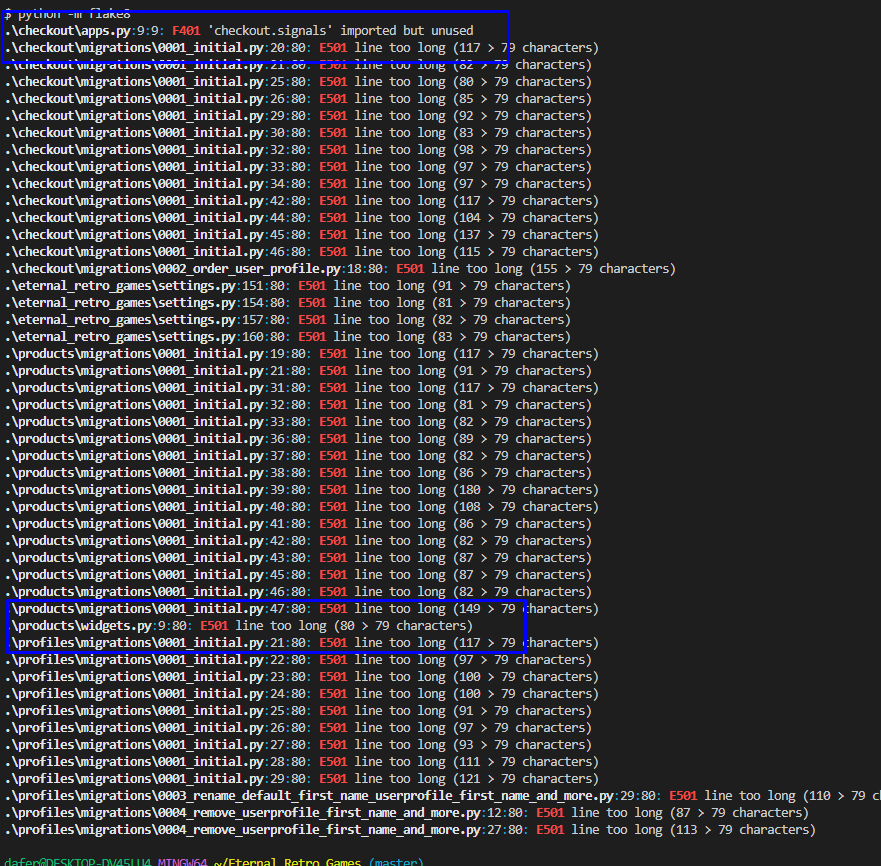
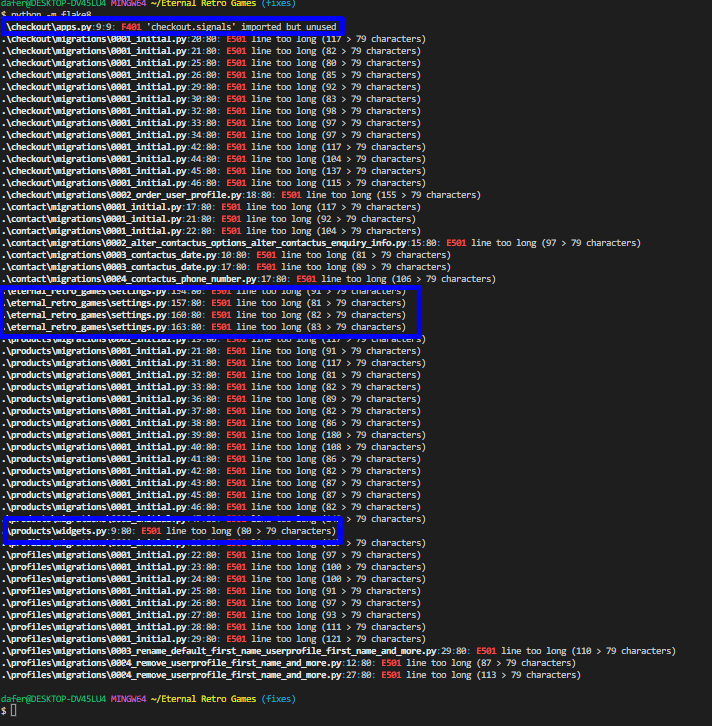
fixed issues reported by flake8 on contact and prodcust apps. image uploaded

diff --git a/contact/forms.py b/contact/forms.py
@@ -4,29 +4,31 @@ from .models import ContactUs
 
 
 select_contact_method = (
-	('email', 'Email'),
-	('phone', 'Phone'),
+    ('email', 'Email'),
+    ('phone', 'Phone'),
 )
+
 
 class ContactForm(forms.ModelForm):
 
-	class Meta:
-		model = ContactUs
-		fields = '__all__'
+    class Meta:
+        model = ContactUs
+        fields = '__all__'
 
-	first_name = forms.CharField(max_length=50)
-	last_name = forms.CharField(max_length=50)
-	email_address = forms.EmailField(max_length=150)
-	phone_number = PhoneNumberField(
-		widget=forms.TextInput(attrs={'placeholder': ('Please enter your country code if outside the UK...')}),
-		label=("Phone number"), required=False)
-	contact_method = forms.CharField(required=False, widget=forms.RadioSelect(choices=select_contact_method))
-	enquiry_info = forms.CharField(required=True)
-	message = forms.CharField(widget=forms.Textarea, max_length=2000)
+    first_name = forms.CharField(max_length=50)
+    last_name = forms.CharField(max_length=50)
+    email_address = forms.EmailField(max_length=150)
+    phone_number = PhoneNumberField(widget=forms.TextInput(
+        attrs={'placeholder': ('Please enter your country code\
+                               if outside the UK...')}), label=(
+        "Phone number"), required=False)
+    contact_method = forms.CharField(required=False,
+                                     widget=forms.RadioSelect
+                                     (choices=select_contact_method))
+    enquiry_info = forms.CharField(required=True)
+    message = forms.CharField(widget=forms.Textarea, max_length=2000)
 
-	def __init__(self, *args, **kwargs):
-		super().__init__(*args, **kwargs)
-		for field_name, field in self.fields.items():
-			field.widget.attrs['class'] = 'grey-font product-form-input'
-
-	
+    def __init__(self, *args, **kwargs):
+        super().__init__(*args, **kwargs)
+        for field_name, field in self.fields.items():
+            field.widget.attrs['class'] = 'grey-font product-form-input'

diff --git a/contact/views.py b/contact/views.py
@@ -1,7 +1,7 @@
 from django.shortcuts import render, redirect, reverse
 from .forms import ContactForm
 from django.contrib import messages
-from django.core.mail import send_mail, send_mass_mail, BadHeaderError
+from django.core.mail import send_mass_mail, BadHeaderError
 from django.http import HttpResponse
 from django.conf import settings
 
@@ -15,21 +15,22 @@ def contact(request):
             form.save()
             enquiry_info = form.cleaned_data['enquiry_info']
             subject = f'Enquiry Message: {enquiry_info}'
-            message = 'Thank you for your message. One of our staff will get back to you shortly.'
+            message = 'Thank you for your message. One of our staff\
+                  will get back to you shortly.'
             email_from = settings.EMAIL_HOST_USER
             client_email = form.cleaned_data['email_address']
             client_message = form.cleaned_data['message']
 
             messages.success(request,
-                            'Thank you for your message.\
+                             'Thank you for your message.\
                             Message has been sent to the Admin.')
             try:
-                   email_messages = (
-                                (subject, message, email_from, [client_email]),
-                                (subject, client_message, email_from, [email_from]),
+                email_messages = (
+                    (subject, message, email_from, [client_email]),
+                    (subject, client_message, email_from, [email_from]),
                 )
-                   send_mass_mail(email_messages)
-            
+                send_mass_mail(email_messages)
+
             except BadHeaderError:
                 return HttpResponse('Invalid header found.')
             return redirect(reverse('home'))

diff --git a/contact/models.py b/contact/models.py
@@ -4,18 +4,18 @@ from phonenumber_field.modelfields import PhoneNumberField
 
 class ContactUs(models.Model):
 
-	class Meta:
-		verbose_name = "Client Message"
-		verbose_name_plural = "Client Messages"
+    class Meta:
+        verbose_name = "Client Message"
+        verbose_name_plural = "Client Messages"
 
-	first_name = models.CharField(max_length=50)
-	last_name = models.CharField(max_length=50)
-	email_address = models.EmailField(max_length=150)
-	phone_number = PhoneNumberField(blank=True)
-	contact_method = models.CharField('Contact', max_length=20)
-	enquiry_info = models.CharField('Enquiry Info', max_length=50)
-	message = models.TextField(max_length=5000)
-	date = models.DateField(auto_now_add=True)
+    first_name = models.CharField(max_length=50)
+    last_name = models.CharField(max_length=50)
+    email_address = models.EmailField(max_length=150)
+    phone_number = PhoneNumberField(blank=True)
+    contact_method = models.CharField('Contact', max_length=20)
+    enquiry_info = models.CharField('Enquiry Info', max_length=50)
+    message = models.TextField(max_length=5000)
+    date = models.DateField(auto_now_add=True)
 
-	def __str__(self):
-		return self.email_address
+    def __str__(self):
+        return self.email_address

diff --git a/products/contexts.py b/products/contexts.py
@@ -1,26 +1,28 @@
 from .models import Product, Manufacturer
 
+
 def platform_list(request):
 
-	products = Product.objects.all()
-	platform = products.values('platform').distinct()
-	temp_list = []
-	platforms =[]
-	for c in platform:
-		temp_list.append(c['platform'])
-	for g in temp_list:
-		platforms.append('%20'.join(g.split(' ')))
-	links = dict(zip(temp_list,platforms))
-	return {
+    products = Product.objects.all()
+    platform = products.values('platform').distinct()
+    temp_list = []
+    platforms = []
+    for c in platform:
+        temp_list.append(c['platform'])
+    for g in temp_list:
+        platforms.append('%20'.join(g.split(' ')))
+    links = dict(zip(temp_list, platforms))
+    return {
         'platforms': platforms,
-		'links': links,
+        'links': links,
     }
+
 
 def manufacturer_list(request):
 
-	manufacturers = Manufacturer.objects.all()
-	manufacturers = manufacturers.values('name').distinct()
+    manufacturers = Manufacturer.objects.all()
+    manufacturers = manufacturers.values('name').distinct()
 
-	return {
+    return {
         'manufacturers': manufacturers,
     }

diff --git a/contact/admin.py b/contact/admin.py
@@ -7,7 +7,8 @@ class ContactUsAdmin(admin.ModelAdmin):
         'first_name',
         'last_name',
         'email_address',
-		'date',
-	]
+        'date',
+        ]
+
 
 admin.site.register(ContactUs, ContactUsAdmin)

diff --git a/products/views.py b/products/views.py
@@ -16,7 +16,6 @@ def all_products(request):
     platform_list = None
     query = None
     manufacturers = products.values('manufacturer__name').distinct()
-    platforms = None
     sort = None
     direction = None
 
